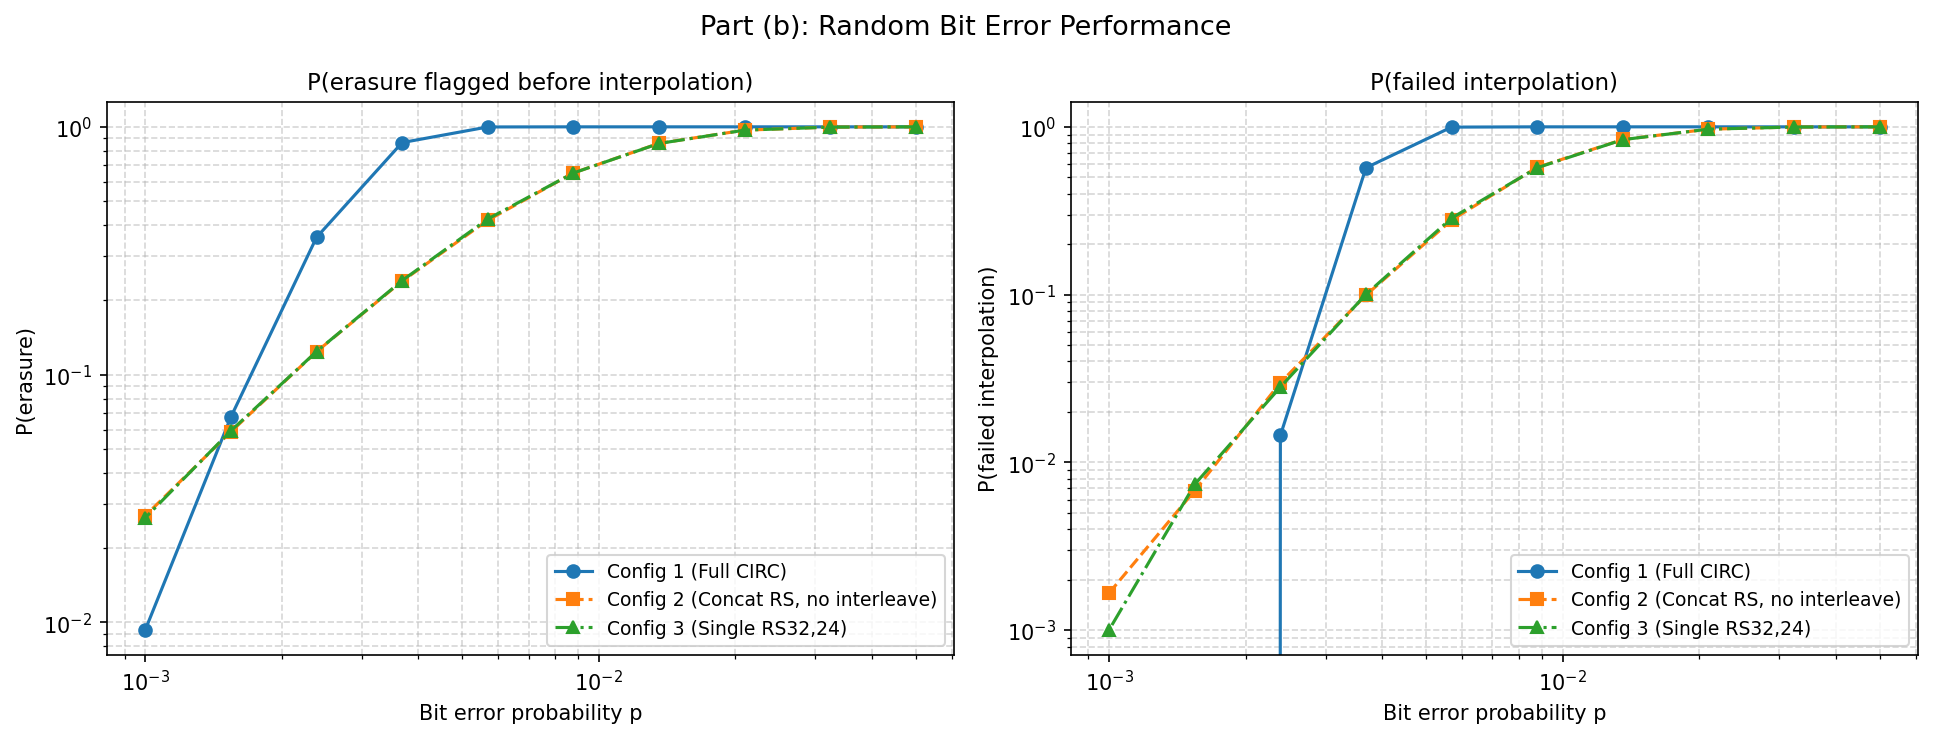
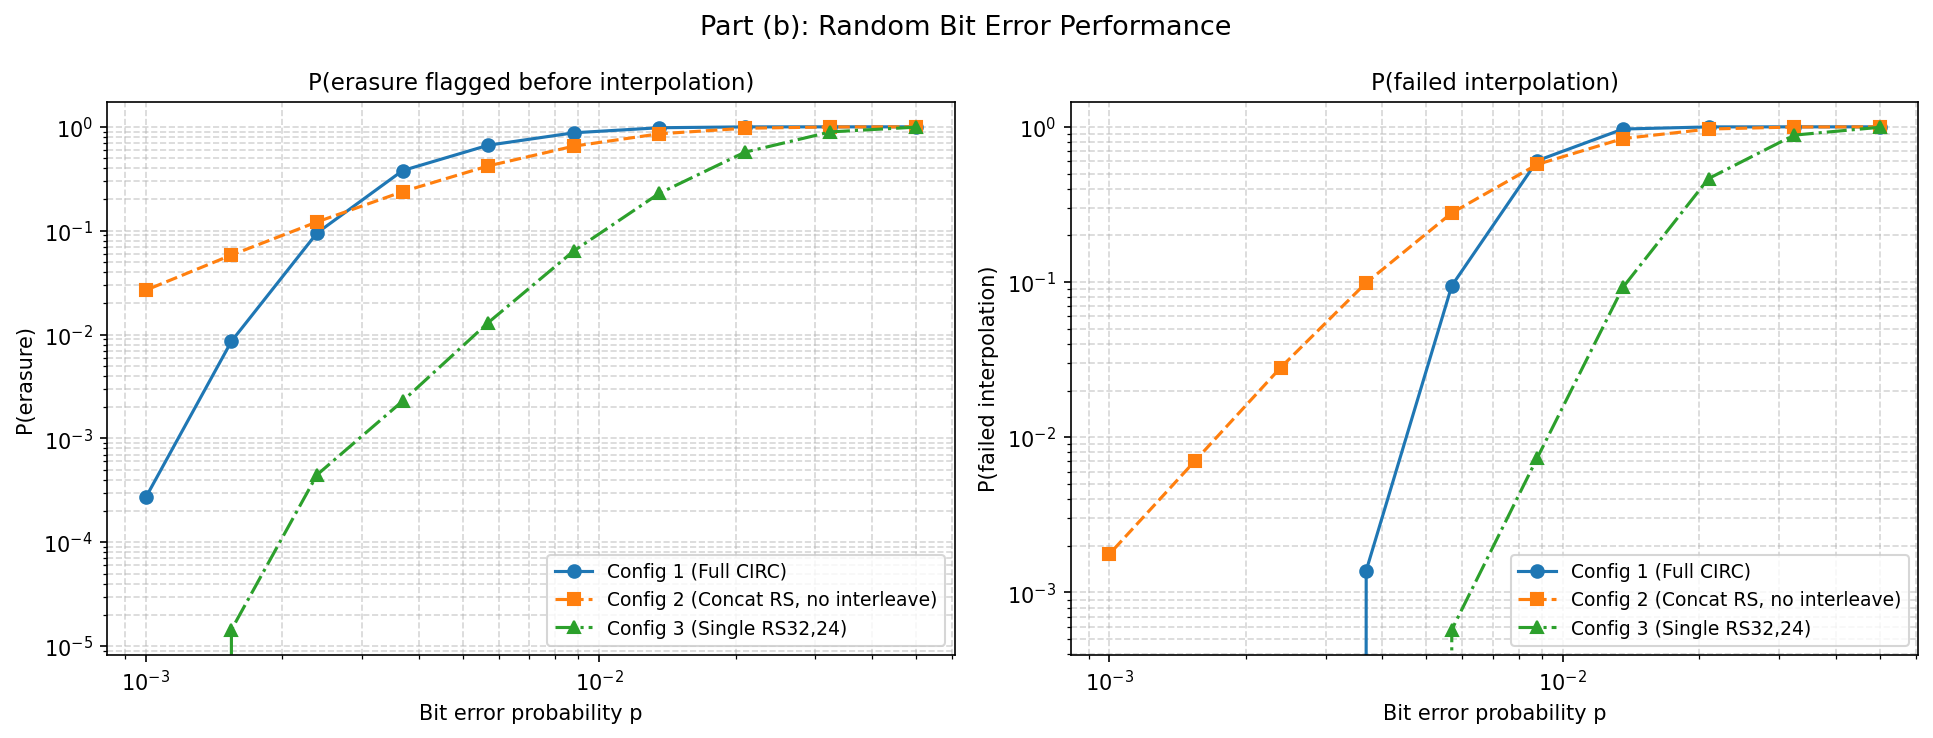
final fixes

diff --git a/src/AudioCD.py b/src/AudioCD.py
@@ -162,7 +162,7 @@ class AudioCD:
         # Add uniform bit errors to cd
         # Input:
         #  -p: the bit error probability, i.e., a self.cd_bits bit is flipped with probability p
-        noise = np.random.rand((self.cd_bits).shape) < p
+        noise = np.random.rand((self.cd_bits).shape[0]) < p
         self.cd_bits = np.bitwise_xor(self.cd_bits, noise.astype(int))
         return
 
@@ -363,6 +363,12 @@ class AudioCD:
             len(np.shape(input)) == 1 and type(input) is np.ndarray
         ), "input must be a 1D numpy array"
         output, n_frames_out = self._generic_encode(input, n_frames, self.rsc2, 24, 28)
+
+        # Move parity bytes from positions 24-27 to 12-15 per the CD standard.
+        # RSCodec appends parity at the end; rolling the second half right by 4 puts them in the middle.
+        output_2d = output.reshape(n_frames_out, 28).copy()
+        output_2d[:, 12:28] = np.roll(output_2d[:, 12:28], 4, axis=1)
+        output = output_2d.flatten()
 
         assert (
             len(np.shape(output)) == 1 and type(output) is np.ndarray
@@ -585,8 +591,14 @@ class AudioCD:
             and type(erasure_flags_in) is np.ndarray
         ), "erasure_flags_in must be a 1D numpy array"
 
+        # Undo the encoder's parity rotation before handing to RSCodec (roll left by 4).
+        input_2d = input.reshape(n_frames, 28).copy()
+        input_2d[:, 12:28] = np.roll(input_2d[:, 12:28], -4, axis=1)
+        erasure_2d = erasure_flags_in.reshape(n_frames, 28).copy()
+        erasure_2d[:, 12:28] = np.roll(erasure_2d[:, 12:28], -4, axis=1)
+
         output, erasure_flags_out, n_frames_return = self._generic_decode(
-            input, n_frames, self.rsc2, 2, 28, 24, erasure_flags_in
+            input_2d.flatten(), n_frames, self.rsc2, 2, 28, 24, erasure_2d.flatten()
         )
         assert n_frames_return == n_frames
         assert (
@@ -951,21 +963,19 @@ class AudioCD:
             else:
                 erase_pos = []
 
+            decode_success = False
+            errata_pos = []
             try:
-                
                 decoded, _, err = encoder.decode(
                     input[
                         i * input_symbols_per_frame : (i + 1) * input_symbols_per_frame
                     ],
                     erase_pos=erase_pos if erase_pos else None,
                 )
-                ERR = len(err)
-
-                output_dec = list(decoded)
-                output_dec = output_dec[-output_symbols_per_frame:]
-            except Exception as e:
-                print(e)
-                ERR = -1
+                errata_pos = list(err)
+                output_dec = list(decoded)[-output_symbols_per_frame:]
+                decode_success = True
+            except Exception:
                 output_dec = list(
                     input[
                         i * input_symbols_per_frame : i * input_symbols_per_frame
@@ -973,32 +983,37 @@ class AudioCD:
                     ]
                 )
 
-            if ERR == -1 or (decoder_number!=2 and ERR>=2) or (decoder_number==2 and ERR>=2 and len(erase_pos)<=1):
-                # C1: decoder fail or 2+ errors; C2: decoder fail or 2+ errors with f<=1
-                output[
-                    i * output_symbols_per_frame : (i + 1) * output_symbols_per_frame
-                ] = output_dec
-                erasure_flags_out[
-                    i * output_symbols_per_frame : (i + 1) * output_symbols_per_frame
-                ] = 1
+            output[
+                i * output_symbols_per_frame : (i + 1) * output_symbols_per_frame
+            ] = output_dec
 
-            elif ERR <=1 or (decoder_number==2 and len(erase_pos)==2):
-                output[
-                    i * output_symbols_per_frame : (i + 1) * output_symbols_per_frame
-                ] = output_dec
-            elif (decoder_number==2 and len(erase_pos)>2):
-                # f > 2: store corrected data but propagate C1 erasure flags since
-                # all parity was spent on erasures, no error detection capacity remains
-                output[
-                    i * output_symbols_per_frame : (i + 1) * output_symbols_per_frame
-                ] = output_dec
-                erasure_flags_out[
-                    i * output_symbols_per_frame : (i + 1) * output_symbols_per_frame
-                ] = erasure_flags_in[
-                    i * input_symbols_per_frame : i * input_symbols_per_frame + output_symbols_per_frame
-                ]
-
-
+            if decoder_number == 1:
+                if not decode_success or len(errata_pos) >= 2:
+                    erasure_flags_out[
+                        i * output_symbols_per_frame : (i + 1) * output_symbols_per_frame
+                    ] = 1
+            elif decoder_number == 2:
+                f = len(erase_pos)
+                detected_errors = sum(1 for pos in errata_pos if pos not in set(erase_pos))
+                if decode_success and detected_errors <= 1:
+                    pass
+                elif f > 2:
+                    erasure_flags_out[
+                        i * output_symbols_per_frame : (i + 1) * output_symbols_per_frame
+                    ] = erasure_flags_in[
+                        i * input_symbols_per_frame : i * input_symbols_per_frame + output_symbols_per_frame
+                    ]
+                elif f == 2 and decode_success:
+                    pass
+                else:
+                    erasure_flags_out[
+                        i * output_symbols_per_frame : (i + 1) * output_symbols_per_frame
+                    ] = 1
+            elif decoder_number == 3:
+                if not decode_success:
+                    erasure_flags_out[
+                        i * output_symbols_per_frame : (i + 1) * output_symbols_per_frame
+                    ] = 1
 
         assert (
             len(np.shape(output)) == 1 and type(output) is np.ndarray
@@ -1007,5 +1022,4 @@ class AudioCD:
             len(np.shape(erasure_flags_out)) == 1
             and type(erasure_flags_out) is np.ndarray
         ), "erasure_flags_out must be a 1D numpy array"
-        print("Erasure flags in this frame: ", erasure_flags_out)
         return (output, erasure_flags_out, n_frames)
